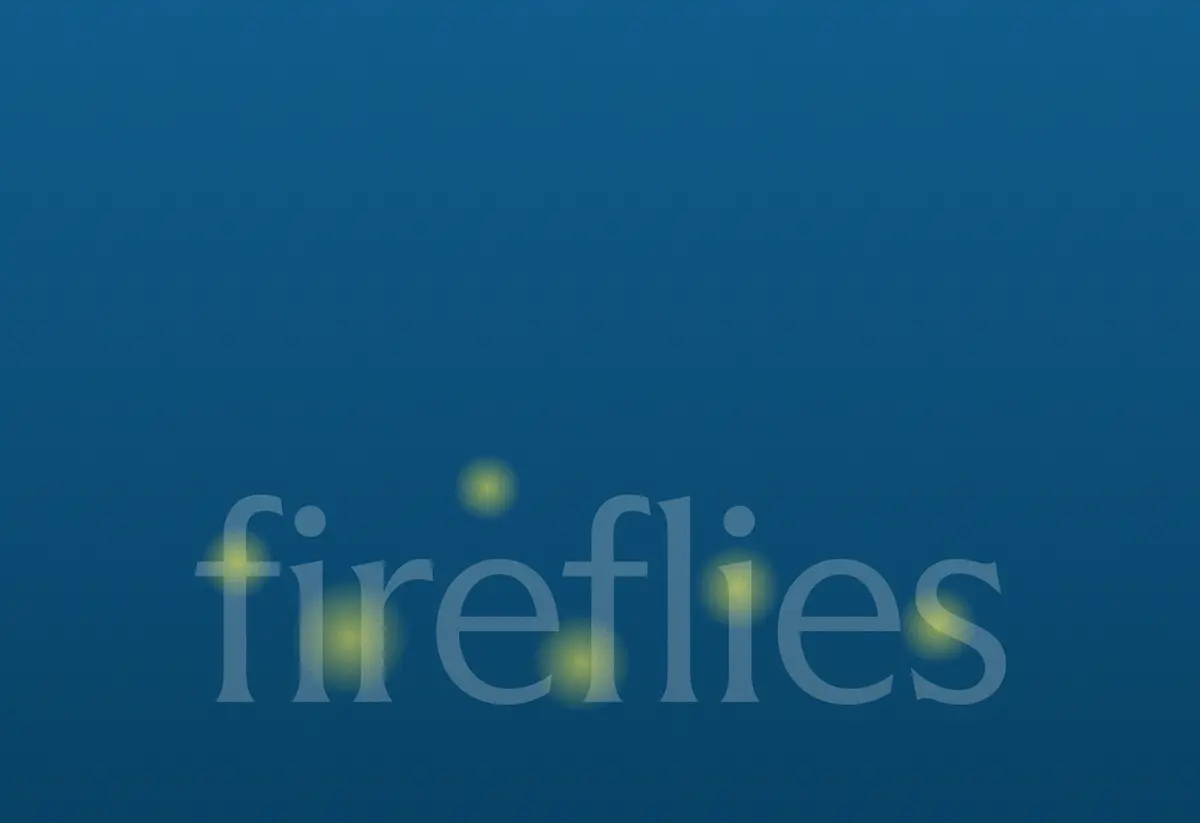
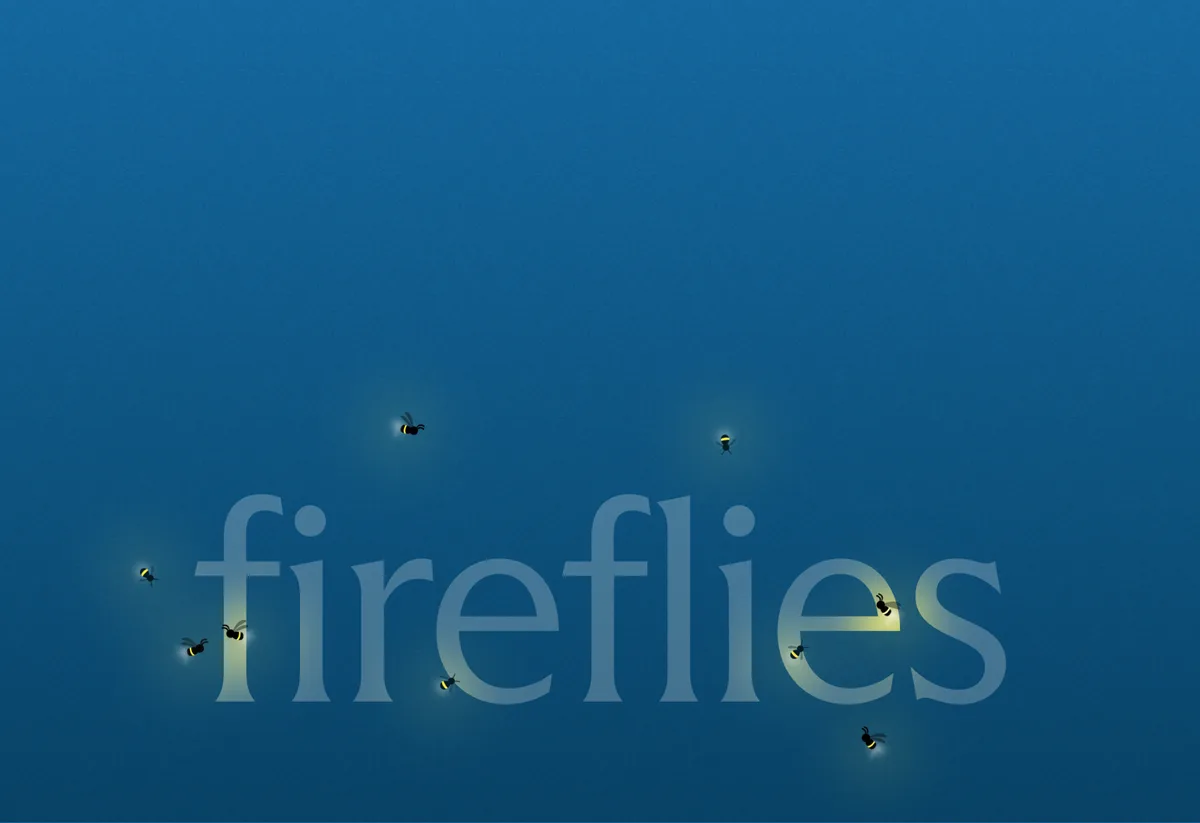
Even section rhythm on home (laptop and desktop), new crisp fireflies cover

diff --git a/services/websites-decks/index.html b/services/websites-decks/index.html
@@ -1512,7 +1512,7 @@
 <script type="application/ld+json">{"@context":"https://schema.org","@type":"Service","name":"Websites & Decks","serviceType":"Websites & Decks","description":"Websites and decks that shape the story around who you need to reach and what you want to achieve: narrative, copy, design, development and launch.","url":"https://disha-shah.io/services/websites-decks/","areaServed":"Worldwide","provider":{"@id":"https://disha-shah.io/#person"}}</script>
 <script type="application/ld+json">{"@context":"https://schema.org","@type":"BreadcrumbList","itemListElement":[{"@type":"ListItem","position":1,"name":"Home","item":"https://disha-shah.io/"},{"@type":"ListItem","position":2,"name":"Services","item":"https://disha-shah.io/#services"},{"@type":"ListItem","position":3,"name":"Websites & Decks","item":"https://disha-shah.io/services/websites-decks/"}]}</script>
 <script type="application/ld+json">{"@context":"https://schema.org","@type":"FAQPage","mainEntity":[{"@type":"Question","name":"Do I need to have the content ready?","acceptedAnswer":{"@type":"Answer","text":"No. Bring what you have—an existing website, an old deck, product notes, or the explanation you usually give on calls. I help shape the narrative and structure, then bring in a copywriting expert to develop the words."}},{"@type":"Question","name":"How is this priced?","acceptedAnswer":{"@type":"Answer","text":"Per project. I look at the scope and what you’re trying to achieve, then recommend the structure that suits it best. One-time project fees generally work well. I also take on monthly retainers for 2–3 months, with each month scoped to a set goal."}},{"@type":"Question","name":"Who handles the copywriting?","acceptedAnswer":{"@type":"Answer","text":"I lead the narrative, messaging priorities, and content direction. A copywriting expert develops the copy, and we refine it together alongside the design. I coordinate that part of the project."}},{"@type":"Question","name":"Do you handle website development?","acceptedAnswer":{"@type":"Answer","text":"Yes. I develop the frontend myself and take care of the website through launch. When specialist development is needed, I bring in dedicated experts and oversee the work with them, staying responsible for design quality and the finished experience."}},{"@type":"Question","name":"Do you do SEO and AEO setup as well?","acceptedAnswer":{"@type":"Answer","text":"Yes. SEO and answer engine optimisation (AEO) are part of the website work, from strategy to technical setup. I’m a former growth marketer and have built enterprise sites with 200 to 1,400+ CMS pages, so I plan the structure, metadata, structured data, redirects, and answer-ready content from the start, rather than adding them after launch."}},{"@type":"Question","name":"What platforms and technologies do you work with?","acceptedAnswer":{"@type":"Answer","text":"I work with Framer, Webflow, Astro, and Next.js, and use Cloudflare for hosting and infrastructure where appropriate. We choose the setup around the website’s requirements and how your team will maintain it."}},{"@type":"Question","name":"Can you work with our existing brand or copywriter?","acceptedAnswer":{"@type":"Answer","text":"Yes. I can build on your existing identity and collaborate with your copywriter. We start by establishing the narrative, audience priorities, and what the project needs to achieve."}},{"@type":"Question","name":"Can the website and deck use the same story?","acceptedAnswer":{"@type":"Answer","text":"They should share a clear foundation. The sequence, emphasis, and level of detail change depending on the audience and how they encounter it."}},{"@type":"Question","name":"Will our team be able to update the work?","acceptedAnswer":{"@type":"Answer","text":"Yes. We plan for your editing needs from the start. Websites can include a CMS for the content your team manages, and decks are delivered in an agreed editable format. I walk your team through how to use both."}},{"@type":"Question","name":"How will we know whether it’s working?","acceptedAnswer":{"@type":"Answer","text":"We agree on the intended outcomes at the start. For a website, that could mean relevant enquiries, bookings, or sign-ups. For a deck, it could mean clearer understanding or progression to the next conversation. Those goals guide the work and what we look at after delivery."}}]}</script>
-<link rel="stylesheet" href="/compact.css?v=1" media="(min-width: 1024px) and (max-width: 1536px)" />
+<link rel="stylesheet" href="/compact.css?v=3" media="(min-width: 1024px)" />
 <!-- seo:end -->
 </head>
 <body>

diff --git a/services/design-systems/index.html b/services/design-systems/index.html
@@ -1512,7 +1512,7 @@
 <script type="application/ld+json">{"@context":"https://schema.org","@type":"Service","name":"Design Systems","serviceType":"Design Systems","description":"Design systems for brands, websites and products: shared foundations, reusable patterns and clear guidance as the work grows.","url":"https://disha-shah.io/services/design-systems/","areaServed":"Worldwide","provider":{"@id":"https://disha-shah.io/#person"}}</script>
 <script type="application/ld+json">{"@context":"https://schema.org","@type":"BreadcrumbList","itemListElement":[{"@type":"ListItem","position":1,"name":"Home","item":"https://disha-shah.io/"},{"@type":"ListItem","position":2,"name":"Services","item":"https://disha-shah.io/#services"},{"@type":"ListItem","position":3,"name":"Design Systems","item":"https://disha-shah.io/services/design-systems/"}]}</script>
 <script type="application/ld+json">{"@context":"https://schema.org","@type":"FAQPage","mainEntity":[{"@type":"Question","name":"Can you help if we don’t have a design system yet?","acceptedAnswer":{"@type":"Answer","text":"Yes. We start with discovery: your brand or product, user needs, team workflows, technical setup, and roadmap. That gives us a basis for deciding what the first version should include."}},{"@type":"Question","name":"How is this priced?","acceptedAnswer":{"@type":"Answer","text":"Per project. I look at the scope and what you’re trying to achieve, then recommend the structure that suits it best. One-time project fees generally work well. I also take on monthly retainers for 2–3 months, with each month scoped to a set goal."}},{"@type":"Question","name":"Can you improve a system we already use?","acceptedAnswer":{"@type":"Answer","text":"Yes. I look at the system alongside the work being made with it. We identify what to retain, where it needs more coverage, and what can be simplified or retired."}},{"@type":"Question","name":"Is this for brands, websites, or products?","acceptedAnswer":{"@type":"Answer","text":"I take a brand and website approach, a product approach, or combine them. The foundations can connect, while the patterns and guidance reflect the different work each needs to support."}},{"@type":"Question","name":"How do you make the system work with AI tools?","acceptedAnswer":{"@type":"Answer","text":"I organise the components, rules, examples, and constraints so they can be used in your team’s AI-assisted workflow. We test them through actual tasks and refine the guidance based on the output."}},{"@type":"Question","name":"Will we need to change our tools or component library?","acceptedAnswer":{"@type":"Answer","text":"We start with your current setup. I assess what can support the work and discuss changes where there’s a clear need, taking implementation and maintenance into account."}},{"@type":"Question","name":"How do you avoid making the system too large?","acceptedAnswer":{"@type":"Answer","text":"We agree on priority use cases and build around them. New patterns need a reason to exist, and part of the work is deciding what can be reused, kept flexible, or added later."}},{"@type":"Question","name":"How do you know the system is working?","acceptedAnswer":{"@type":"Answer","text":"We agree on success criteria at the start. Depending on the project, that can include adoption, repeated rework, implementation consistency, accessibility, and how effectively people and AI tools complete real tasks with it."}},{"@type":"Question","name":"Does this include development?","acceptedAnswer":{"@type":"Answer","text":"Implementation scope is agreed at the start. I can build the system to work with AI tools like Claude, Codex and VS Code, in Figma and Storybook, and across your chosen stack, including React, HTML/CSS/JS, iOS and Svelte. I can also work with developers on design-to-code alignment, component behaviour and build reviews, with any development deliverables defined separately."}},{"@type":"Question","name":"What happens after rollout?","acceptedAnswer":{"@type":"Answer","text":"Your team gets the agreed assets, documentation, and guidance for ownership and updates. I can stay involved through ongoing support as the system and your needs evolve."}}]}</script>
-<link rel="stylesheet" href="/compact.css?v=1" media="(min-width: 1024px) and (max-width: 1536px)" />
+<link rel="stylesheet" href="/compact.css?v=3" media="(min-width: 1024px)" />
 <!-- seo:end -->
 </head>
 <body>

diff --git a/about/index.html b/about/index.html
@@ -1357,7 +1357,7 @@
 <script type="application/ld+json">{"@context":"https://schema.org","@type":"AboutPage","name":"About — Disha Shah","url":"https://disha-shah.io/about/","description":"Seven years of designing brands and products with teams across 15+ countries, from Fortune 100 companies and family businesses to YC-, Accel- and IIT-backed startups.","mainEntity":{"@type":"Person","@id":"https://disha-shah.io/#person","name":"Disha Shah","url":"https://disha-shah.io/","image":"https://disha-shah.io/img/me.webp","jobTitle":"Brand and product designer","sameAs":["https://www.linkedin.com/in/disha-shah-8b706814/","https://www.instagram.com/_dishashah96/","https://x.com/dishashah66"],"knowsAbout":["Brand strategy","Visual identity","Product design","Design systems","Websites","Pitch decks","AI-native products","Deep-tech"]}}</script>
 <script type="application/ld+json">{"@context":"https://schema.org","@type":"BreadcrumbList","itemListElement":[{"@type":"ListItem","position":1,"name":"Home","item":"https://disha-shah.io/"},{"@type":"ListItem","position":2,"name":"About","item":"https://disha-shah.io/about/"}]}</script>
 <script type="application/ld+json">{"@context":"https://schema.org","@type":"FAQPage","mainEntity":[{"@type":"Question","name":"What if we’re not sure what we need yet?","acceptedAnswer":{"@type":"Answer","text":"Tell me what you’re noticing—people aren’t understanding the offer, a product feels difficult to use, or the team keeps working around the same problems. We can look at what’s happening and decide whether to start with research, an audit, or a defined project. You don’t need to arrive with the solution already scoped."}},{"@type":"Question","name":"How do we start working together?","acceptedAnswer":{"@type":"Answer","text":"Send me a little about what you’re working on and where you need help. We’ll talk through the project, timing, and budget, and I’ll put together a scope. You don’t need to have everything figured out before reaching out."}},{"@type":"Question","name":"Can you work with our existing team or studio?","acceptedAnswer":{"@type":"Answer","text":"Yes. I work alongside internal designers, engineers, and marketing teams, and support studios behind the scenes."}},{"@type":"Question","name":"Do you take on projects or ongoing work?","acceptedAnswer":{"@type":"Answer","text":"Both. A defined project works well when there’s a clear outcome to work towards. Ongoing support makes sense when you have a changing roadmap or regular design needs."}},{"@type":"Question","name":"Do you work internationally?","acceptedAnswer":{"@type":"Answer","text":"Yes. I’ve worked with teams across 15+ countries since 2019. I generally arrange my working hours around US Eastern and Central European time, with flexibility to find overlap that works for your team."}},{"@type":"Question","name":"Are you open to full-time roles?","acceptedAnswer":{"@type":"Answer","text":"Yes, if the team, responsibilities, and work feel like a good fit. I currently run Vanya Studio as a solo, independent practice, but I’m open to a role where I can take deeper ownership and contribute over time."}}]}</script>
-<link rel="stylesheet" href="/compact.css?v=1" media="(min-width: 1024px) and (max-width: 1536px)" />
+<link rel="stylesheet" href="/compact.css?v=3" media="(min-width: 1024px)" />
 <!-- seo:end -->
 </head>
 <body>

diff --git a/services/branding/index.html b/services/branding/index.html
@@ -1512,7 +1512,7 @@
 <script type="application/ld+json">{"@context":"https://schema.org","@type":"Service","name":"Branding","serviceType":"Branding","description":"Brand strategy and visual identity for founders and teams: what your business stands for, and how it shows up in the words, the identity and the details.","url":"https://disha-shah.io/services/branding/","areaServed":"Worldwide","provider":{"@id":"https://disha-shah.io/#person"}}</script>
 <script type="application/ld+json">{"@context":"https://schema.org","@type":"BreadcrumbList","itemListElement":[{"@type":"ListItem","position":1,"name":"Home","item":"https://disha-shah.io/"},{"@type":"ListItem","position":2,"name":"Services","item":"https://disha-shah.io/#services"},{"@type":"ListItem","position":3,"name":"Branding","item":"https://disha-shah.io/services/branding/"}]}</script>
 <script type="application/ld+json">{"@context":"https://schema.org","@type":"FAQPage","mainEntity":[{"@type":"Question","name":"Can you work with an existing brand?","acceptedAnswer":{"@type":"Answer","text":"Yes. We start by looking at what still feels right and what needs to change. The scope might be a focused refresh or a more complete rethink."}},{"@type":"Question","name":"How is this priced?","acceptedAnswer":{"@type":"Answer","text":"Per project. I look at the scope and what you’re trying to achieve, then recommend the structure that suits it best. One-time project fees generally work well. I also take on monthly retainers for 2–3 months, with each month scoped to a set goal."}},{"@type":"Question","name":"Do I need brand strategy before visual identity?","acceptedAnswer":{"@type":"Answer","text":"We need a clear understanding of your business, audience, and positioning. If you already have that work, I can build from it. If there are gaps, we work through them before moving into design."}},{"@type":"Question","name":"Can we keep our existing logo?","acceptedAnswer":{"@type":"Answer","text":"Yes. We can work with the parts of the identity that still serve the business and develop the system around them."}},{"@type":"Question","name":"What kinds of brand applications are included?","acceptedAnswer":{"@type":"Answer","text":"We agree on the materials you need before starting. These might include presentation templates, social templates, stationery, or other assets your team uses regularly."}},{"@type":"Question","name":"Can you design the website or deck too?","acceptedAnswer":{"@type":"Answer","text":"Yes. Websites and decks are a separate offering, and we can scope them alongside the branding work so everything develops together."}},{"@type":"Question","name":"How long does a branding project take?","acceptedAnswer":{"@type":"Answer","text":"Brand strategy usually takes about a week. A logo takes around two weeks, and about one more week if you need other brand assets developed alongside it. If you need it faster, we can plan for that. I generally recommend 3–4 weeks for the whole process, and we adjust the timeline to what your team needs and how decisions get made. We agree on the timeline and review stages before starting."}}]}</script>
-<link rel="stylesheet" href="/compact.css?v=1" media="(min-width: 1024px) and (max-width: 1536px)" />
+<link rel="stylesheet" href="/compact.css?v=3" media="(min-width: 1024px)" />
 <!-- seo:end -->
 </head>
 <body>

diff --git a/services/product-design/index.html b/services/product-design/index.html
@@ -1491,7 +1491,7 @@
 <script type="application/ld+json">{"@context":"https://schema.org","@type":"Service","name":"Product Design","serviceType":"Product Design","description":"Product design for AI, deep-tech and enterprise teams, built around how your users and your industry actually work.","url":"https://disha-shah.io/services/product-design/","areaServed":"Worldwide","provider":{"@id":"https://disha-shah.io/#person"}}</script>
 <script type="application/ld+json">{"@context":"https://schema.org","@type":"BreadcrumbList","itemListElement":[{"@type":"ListItem","position":1,"name":"Home","item":"https://disha-shah.io/"},{"@type":"ListItem","position":2,"name":"Services","item":"https://disha-shah.io/#services"},{"@type":"ListItem","position":3,"name":"Product Design","item":"https://disha-shah.io/services/product-design/"}]}</script>
 <script type="application/ld+json">{"@context":"https://schema.org","@type":"FAQPage","mainEntity":[{"@type":"Question","name":"How do we start working together?","acceptedAnswer":{"@type":"Answer","text":"Book a call with me or send over an email. We will set up a call, and you tell me what is not working. If I can help, I will say what we would do and what it costs. If we cannot, we will say that too."}},{"@type":"Question","name":"How is this priced?","acceptedAnswer":{"@type":"Answer","text":"Per project. I look at the scope and what you’re trying to achieve, then recommend the structure that suits it best. One-time project fees generally work well. I also take on monthly retainers for 2–3 months, with each month scoped to a set goal."}},{"@type":"Question","name":"What if it’s not the right fit?","acceptedAnswer":{"@type":"Answer","text":"Most people start with a short audit or sprint. If it isn’t working, you can stop, and I’ll refund any time I haven’t worked yet."}},{"@type":"Question","name":"Where are you based?","acceptedAnswer":{"@type":"Answer","text":"In India, working between IST and EST, with plenty of overlap with US teams."}},{"@type":"Question","name":"Do you work with AI tools and engineers?","acceptedAnswer":{"@type":"Answer","text":"Yes. I design with Claude, Cursor and VS Code in mind, and can ship front end myself."}},{"@type":"Question","name":"NDAs?","acceptedAnswer":{"@type":"Answer","text":"Always happy to sign one."}}]}</script>
-<link rel="stylesheet" href="/compact.css?v=1" media="(min-width: 1024px) and (max-width: 1536px)" />
+<link rel="stylesheet" href="/compact.css?v=3" media="(min-width: 1024px)" />
 <!-- seo:end -->
 </head>
 <body>

diff --git a/compact.css b/compact.css
@@ -2,14 +2,17 @@
    so the page reads at a steadier pace. Larger screens and phones are untouched. */
 @media (min-width: 1024px) and (max-width: 1536px) {
   /* Home */
-  .problem { margin-top: 128px !important; }
-  .story { margin-top: 128px !important; }
   .story__card { padding-top: 84px !important; padding-bottom: 84px !important; }
-  .work { margin-top: 128px !important; }
-  .testimonials { padding-top: 128px !important; padding-bottom: 128px !important; }
-  .services { padding-bottom: 104px !important; }
-  .pulls, .playground { padding-top: 96px !important; padding-bottom: 88px !important; }
   .cascading-slider { margin-top: 72px !important; }
+
+  /* Home: one steady rhythm between sections (--g), with the old minimum heights released */
+  :root { --g: 120px; }
+  .problem, .story, .work { margin-top: var(--g) !important; }
+  .testimonials { padding-top: calc(var(--g) - 40px) !important; padding-bottom: calc(var(--g) - 36px) !important; }
+  .services { padding-bottom: calc(var(--g) / 2 - 40px) !important; }
+  .pulls { min-height: 0 !important; padding-top: calc(var(--g) / 2) !important; padding-bottom: calc(var(--g) / 2) !important; }
+  .playground { min-height: 0 !important; padding-top: calc(var(--g) / 2) !important; padding-bottom: calc(var(--g) / 2 + 5px) !important; }
+  .footer { padding-top: calc(var(--g) / 2 - 16px) !important; }
 
   /* About */
   .bio { padding-top: 120px !important; }
@@ -39,7 +42,17 @@
   .pd-plans { padding-top: 128px !important; }
 
   /* Footer (every page) */
-  .footer { padding-top: 128px !important; }
   .footer__bar { margin-top: 110px !important; }
   .footer__markwrap { margin-top: 140px !important; }
+}
+
+/* Large screens (above 1536px): the same steady rhythm, a little looser */
+@media (min-width: 1537px) {
+  :root { --g: 160px; }
+  .problem, .story, .work { margin-top: var(--g) !important; }
+  .testimonials { padding-top: calc(var(--g) - 40px) !important; padding-bottom: calc(var(--g) - 36px) !important; }
+  .services { padding-bottom: calc(var(--g) / 2 - 40px) !important; }
+  .pulls { min-height: 0 !important; padding-top: calc(var(--g) / 2) !important; padding-bottom: calc(var(--g) / 2) !important; }
+  .playground { min-height: 0 !important; padding-top: calc(var(--g) / 2) !important; padding-bottom: calc(var(--g) / 2 + 5px) !important; }
+  .footer { padding-top: calc(var(--g) / 2 - 16px) !important; }
 }

diff --git a/index.html b/index.html
@@ -1281,7 +1281,7 @@
 <meta name="twitter:description" content="Disha Shah designs brand and product systems for B2B, AI-native and deep-tech companies: brand strategy and identity, product design, design systems, websites and decks." />
 <meta name="twitter:image" content="https://disha-shah.io/img/og-image.jpg" />
 <script type="application/ld+json">{"@context":"https://schema.org","@graph":[{"@type":"WebSite","@id":"https://disha-shah.io/#website","url":"https://disha-shah.io/","name":"Disha Shah","inLanguage":"en","publisher":{"@id":"https://disha-shah.io/#person"}},{"@type":"Person","@id":"https://disha-shah.io/#person","name":"Disha Shah","url":"https://disha-shah.io/","image":"https://disha-shah.io/img/me.webp","jobTitle":"Brand and product designer","sameAs":["https://www.linkedin.com/in/disha-shah-8b706814/","https://www.instagram.com/_dishashah96/","https://x.com/dishashah66"],"knowsAbout":["Brand strategy","Visual identity","Product design","Design systems","Websites","Pitch decks","AI-native products","Deep-tech"]}]}</script>
-<link rel="stylesheet" href="/compact.css?v=1" media="(min-width: 1024px) and (max-width: 1536px)" />
+<link rel="stylesheet" href="/compact.css?v=3" media="(min-width: 1024px)" />
 <!-- seo:end -->
 </head>
 <body>
@@ -1602,7 +1602,7 @@
 <div aria-roledescription="slide" data-cascading-slide role="group" class="cascading-slider__item" aria-label="Fireflies — interactive experiment" data-href="playground/fireflies/" data-cursor-hover data-cursor-text="Play with fireflies">
         <div class="cascading-slider__item-inner">
           <div class="cascading-slider__item-bg">
-            <img src="img/fireflies-static.webp" alt="" width="1200" height="823" class="cascading-slider__img cascading-slider__poster" draggable="false" />
+            <img src="img/fireflies-static.webp?v=2" alt="" width="1200" height="823" class="cascading-slider__img cascading-slider__poster" draggable="false" />
             <iframe src="playground/fireflies/" title="Fireflies preview" loading="lazy" scrolling="no" tabindex="-1" class="cascading-slider__img cascading-slider__frame" onload="this.classList.add('is-ready')"></iframe>
           </div>
         </div>

diff --git a/work/index.html b/work/index.html
@@ -1443,7 +1443,7 @@
 <meta name="twitter:image" content="https://disha-shah.io/img/og-image.jpg" />
 <script type="application/ld+json">{"@context":"https://schema.org","@type":"CollectionPage","name":"Work — Disha Shah","url":"https://disha-shah.io/work/","description":"Case studies from Disha Shah: brand, product and design-system work for AI, healthcare, finance and deep-tech companies.","author":{"@id":"https://disha-shah.io/#person"},"mainEntity":{"@type":"ItemList","itemListElement":[{"@type":"ListItem","position":1,"url":"https://disha-shah.io/work/hotplate/"},{"@type":"ListItem","position":2,"url":"https://disha-shah.io/work/enterprise-design-system/"},{"@type":"ListItem","position":3,"url":"https://disha-shah.io/work/complaints-intelligence-platform/"},{"@type":"ListItem","position":4,"url":"https://disha-shah.io/work/bull-and-wolf/"},{"@type":"ListItem","position":5,"url":"https://disha-shah.io/work/shweta-labs/"},{"@type":"ListItem","position":6,"url":"https://disha-shah.io/work/investment-research-platform/"},{"@type":"ListItem","position":7,"url":"https://disha-shah.io/work/geosynthesis/"},{"@type":"ListItem","position":8,"url":"https://disha-shah.io/work/nova/"},{"@type":"ListItem","position":9,"url":"https://disha-shah.io/work/tithe/"},{"@type":"ListItem","position":10,"url":"https://disha-shah.io/work/jobgurus/"}]}}</script>
 <script type="application/ld+json">{"@context":"https://schema.org","@type":"BreadcrumbList","itemListElement":[{"@type":"ListItem","position":1,"name":"Home","item":"https://disha-shah.io/"},{"@type":"ListItem","position":2,"name":"Work","item":"https://disha-shah.io/work/"}]}</script>
-<link rel="stylesheet" href="/compact.css?v=1" media="(min-width: 1024px) and (max-width: 1536px)" />
+<link rel="stylesheet" href="/compact.css?v=3" media="(min-width: 1024px)" />
 <!-- seo:end -->
 </head>
 <body>

diff --git a/work/complaints-intelligence-platform/index.html b/work/complaints-intelligence-platform/index.html
@@ -1443,7 +1443,7 @@
 <meta name="twitter:image" content="https://disha-shah.io/work/img/nwZBHmikNwIq3epe8qU4oLgaOQ.webp" />
 <script type="application/ld+json">{"@context":"https://schema.org","@type":"CreativeWork","name":"Building an enterprise complaints portal without sacrificing compliance or human judgment.","headline":"Building an enterprise complaints portal without sacrificing compliance or human judgment.","description":"Product and UX case study: an enterprise complaints investigation portal for life sciences — structure and speed for triage without sacrificing compliance or human judgment.","url":"https://disha-shah.io/work/complaints-intelligence-platform/","image":"https://disha-shah.io/work/img/nwZBHmikNwIq3epe8qU4oLgaOQ.webp","inLanguage":"en","creator":{"@id":"https://disha-shah.io/#person"},"author":{"@id":"https://disha-shah.io/#person"},"genre":"Healthcare & Lifesciences"}</script>
 <script type="application/ld+json">{"@context":"https://schema.org","@type":"BreadcrumbList","itemListElement":[{"@type":"ListItem","position":1,"name":"Home","item":"https://disha-shah.io/"},{"@type":"ListItem","position":2,"name":"Work","item":"https://disha-shah.io/work/"},{"@type":"ListItem","position":3,"name":"Building an enterprise complaints portal without sacrificing compliance or human judgment.","item":"https://disha-shah.io/work/complaints-intelligence-platform/"}]}</script>
-<link rel="stylesheet" href="/compact.css?v=1" media="(min-width: 1024px) and (max-width: 1536px)" />
+<link rel="stylesheet" href="/compact.css?v=3" media="(min-width: 1024px)" />
 <!-- seo:end -->
 </head>
 <body>

diff --git a/work/hotplate/index.html b/work/hotplate/index.html
@@ -1443,7 +1443,7 @@
 <meta name="twitter:image" content="https://disha-shah.io/work/img/k7VSdOYfyzIzoaVscSeLKck4F4.webp" />
 <script type="application/ld+json">{"@context":"https://schema.org","@type":"CreativeWork","name":"Designing clarity into a new food business model — so the website sells without over-explaining","headline":"Designing clarity into a new food business model — so the website sells without over-explaining","description":"Website case study for Hotplate (YC S20): designing clarity into a prosumer food platform so real chefs, drops, and product UI sell the model without over-explaining.","url":"https://disha-shah.io/work/hotplate/","image":"https://disha-shah.io/work/img/k7VSdOYfyzIzoaVscSeLKck4F4.webp","inLanguage":"en","creator":{"@id":"https://disha-shah.io/#person"},"author":{"@id":"https://disha-shah.io/#person"},"genre":"Hotplate (YCS20) X Ancorpoint Studio"}</script>
 <script type="application/ld+json">{"@context":"https://schema.org","@type":"BreadcrumbList","itemListElement":[{"@type":"ListItem","position":1,"name":"Home","item":"https://disha-shah.io/"},{"@type":"ListItem","position":2,"name":"Work","item":"https://disha-shah.io/work/"},{"@type":"ListItem","position":3,"name":"Designing clarity into a new food business model — so the website sells without over-explaining","item":"https://disha-shah.io/work/hotplate/"}]}</script>
-<link rel="stylesheet" href="/compact.css?v=1" media="(min-width: 1024px) and (max-width: 1536px)" />
+<link rel="stylesheet" href="/compact.css?v=3" media="(min-width: 1024px)" />
 <!-- seo:end -->
 </head>
 <body>

diff --git a/work/jobgurus/index.html b/work/jobgurus/index.html
@@ -1443,7 +1443,7 @@
 <meta name="twitter:image" content="https://disha-shah.io/work/img/9qPriYftinhuYDaasPJVZu9lGTM.webp" />
 <script type="application/ld+json">{"@context":"https://schema.org","@type":"CreativeWork","name":"Designing a path-first product website for newcomers navigating the Canadian job market.","headline":"Designing a path-first product website for newcomers navigating the Canadian job market.","description":"Product website design for newcomers navigating the Canadian job market — a path-first narrative that clarifies the product without drowning users in options.","url":"https://disha-shah.io/work/jobgurus/","image":"https://disha-shah.io/work/img/9qPriYftinhuYDaasPJVZu9lGTM.webp","inLanguage":"en","creator":{"@id":"https://disha-shah.io/#person"},"author":{"@id":"https://disha-shah.io/#person"},"genre":"JobGurus (Bright Studios)"}</script>
 <script type="application/ld+json">{"@context":"https://schema.org","@type":"BreadcrumbList","itemListElement":[{"@type":"ListItem","position":1,"name":"Home","item":"https://disha-shah.io/"},{"@type":"ListItem","position":2,"name":"Work","item":"https://disha-shah.io/work/"},{"@type":"ListItem","position":3,"name":"Designing a path-first product website for newcomers navigating the Canadian job market.","item":"https://disha-shah.io/work/jobgurus/"}]}</script>
-<link rel="stylesheet" href="/compact.css?v=1" media="(min-width: 1024px) and (max-width: 1536px)" />
+<link rel="stylesheet" href="/compact.css?v=3" media="(min-width: 1024px)" />
 <!-- seo:end -->
 </head>
 <body>

diff --git a/work/investment-research-platform/index.html b/work/investment-research-platform/index.html
@@ -1443,7 +1443,7 @@
 <meta name="twitter:image" content="https://disha-shah.io/work/img/ALyPwJ9OCKtDzR71TyvMuH3Qw.webp" />
 <script type="application/ld+json">{"@context":"https://schema.org","@type":"CreativeWork","name":"Designing a research platform for PE/VCs where investment data becomes a decision.","headline":"Designing a research platform for PE/VCs where investment data becomes a decision.","description":"AI-powered research platform for PE/VC teams — one environment from raw data to synthesis and published insight, designed to keep analysts in flow.","url":"https://disha-shah.io/work/investment-research-platform/","image":"https://disha-shah.io/work/img/ALyPwJ9OCKtDzR71TyvMuH3Qw.webp","inLanguage":"en","creator":{"@id":"https://disha-shah.io/#person"},"author":{"@id":"https://disha-shah.io/#person"},"genre":"Finance"}</script>
 <script type="application/ld+json">{"@context":"https://schema.org","@type":"BreadcrumbList","itemListElement":[{"@type":"ListItem","position":1,"name":"Home","item":"https://disha-shah.io/"},{"@type":"ListItem","position":2,"name":"Work","item":"https://disha-shah.io/work/"},{"@type":"ListItem","position":3,"name":"Designing a research platform for PE/VCs where investment data becomes a decision.","item":"https://disha-shah.io/work/investment-research-platform/"}]}</script>
-<link rel="stylesheet" href="/compact.css?v=1" media="(min-width: 1024px) and (max-width: 1536px)" />
+<link rel="stylesheet" href="/compact.css?v=3" media="(min-width: 1024px)" />
 <!-- seo:end -->
 </head>
 <body>
